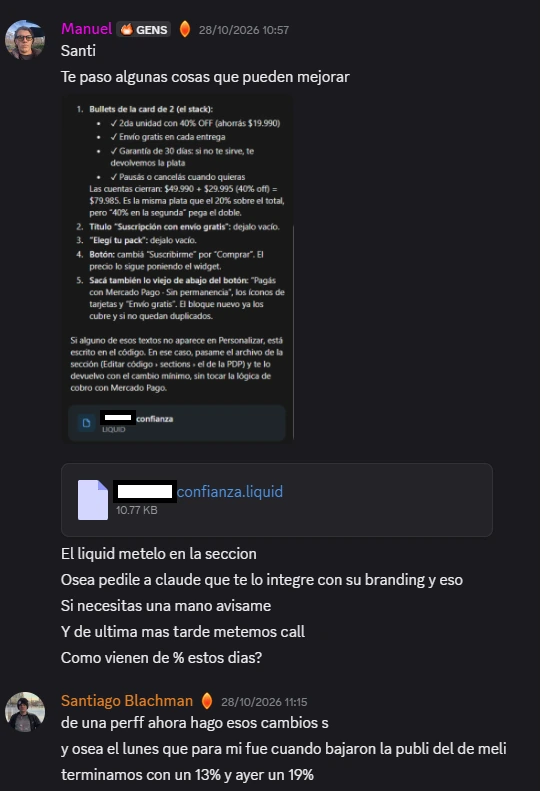
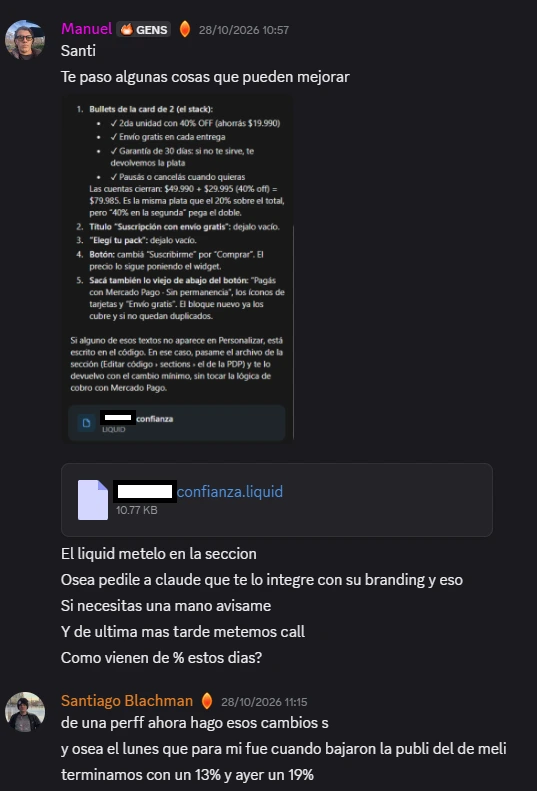
Oferta Genesis: captura del chat completa y sin franja blanca
Claude-Session: https://claude.ai/code/session_016N68SrACTDvjvD1JivDEhs

diff --git a/agentes/mi-negocio/ventas/oferta-genesis.html b/agentes/mi-negocio/ventas/oferta-genesis.html
@@ -309,7 +309,8 @@
   .bloque-ac { display: grid; grid-template-columns: minmax(0, 1fr) minmax(0, 1.6fr); gap: 18px; align-items: start; padding: 18px; }
   .bloque-ac .pill { font-size: 18px; }
   .bloque-ac .galeria { grid-template-columns: repeat(auto-fit, minmax(220px, 1fr)); }
-  .bloque-ac .galeria img.chat { max-height: 420px; object-fit: cover; object-position: top left; }
+  .bloque-ac .galeria img.chat { width: auto; max-width: 100%; max-height: 560px; object-fit: contain; justify-self: start; }
+  .bloque-ac .galeria figure:has(img.chat) { justify-items: start; }
   .portada { min-height: 60vh; align-content: center; justify-items: center; text-align: center; }
   .portada h2 { font-size: clamp(60px, 12vw, 140px); font-weight: 700; color: var(--naranja); letter-spacing: -0.045em; }
   .indice { display: flex; flex-wrap: wrap; gap: 8px; justify-content: center; }
